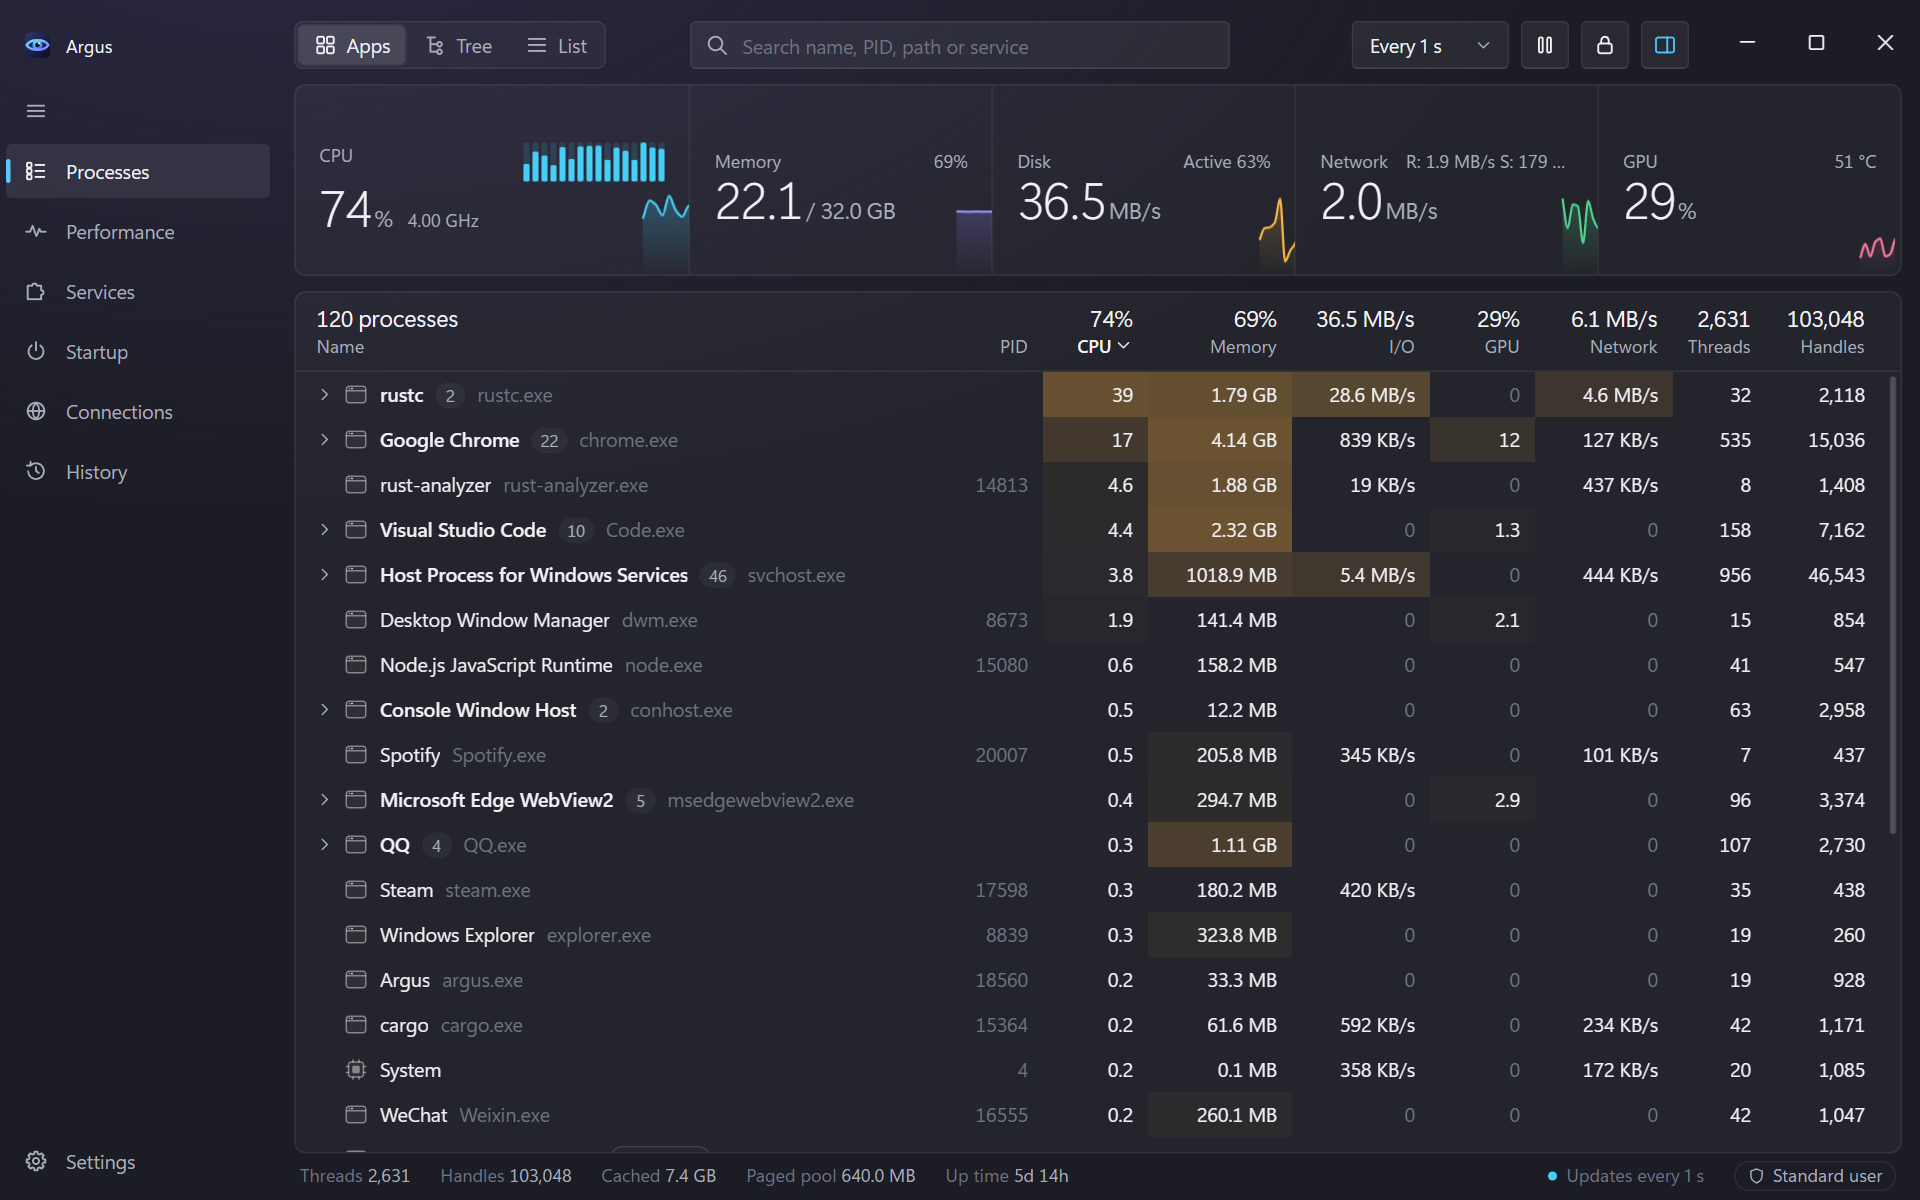
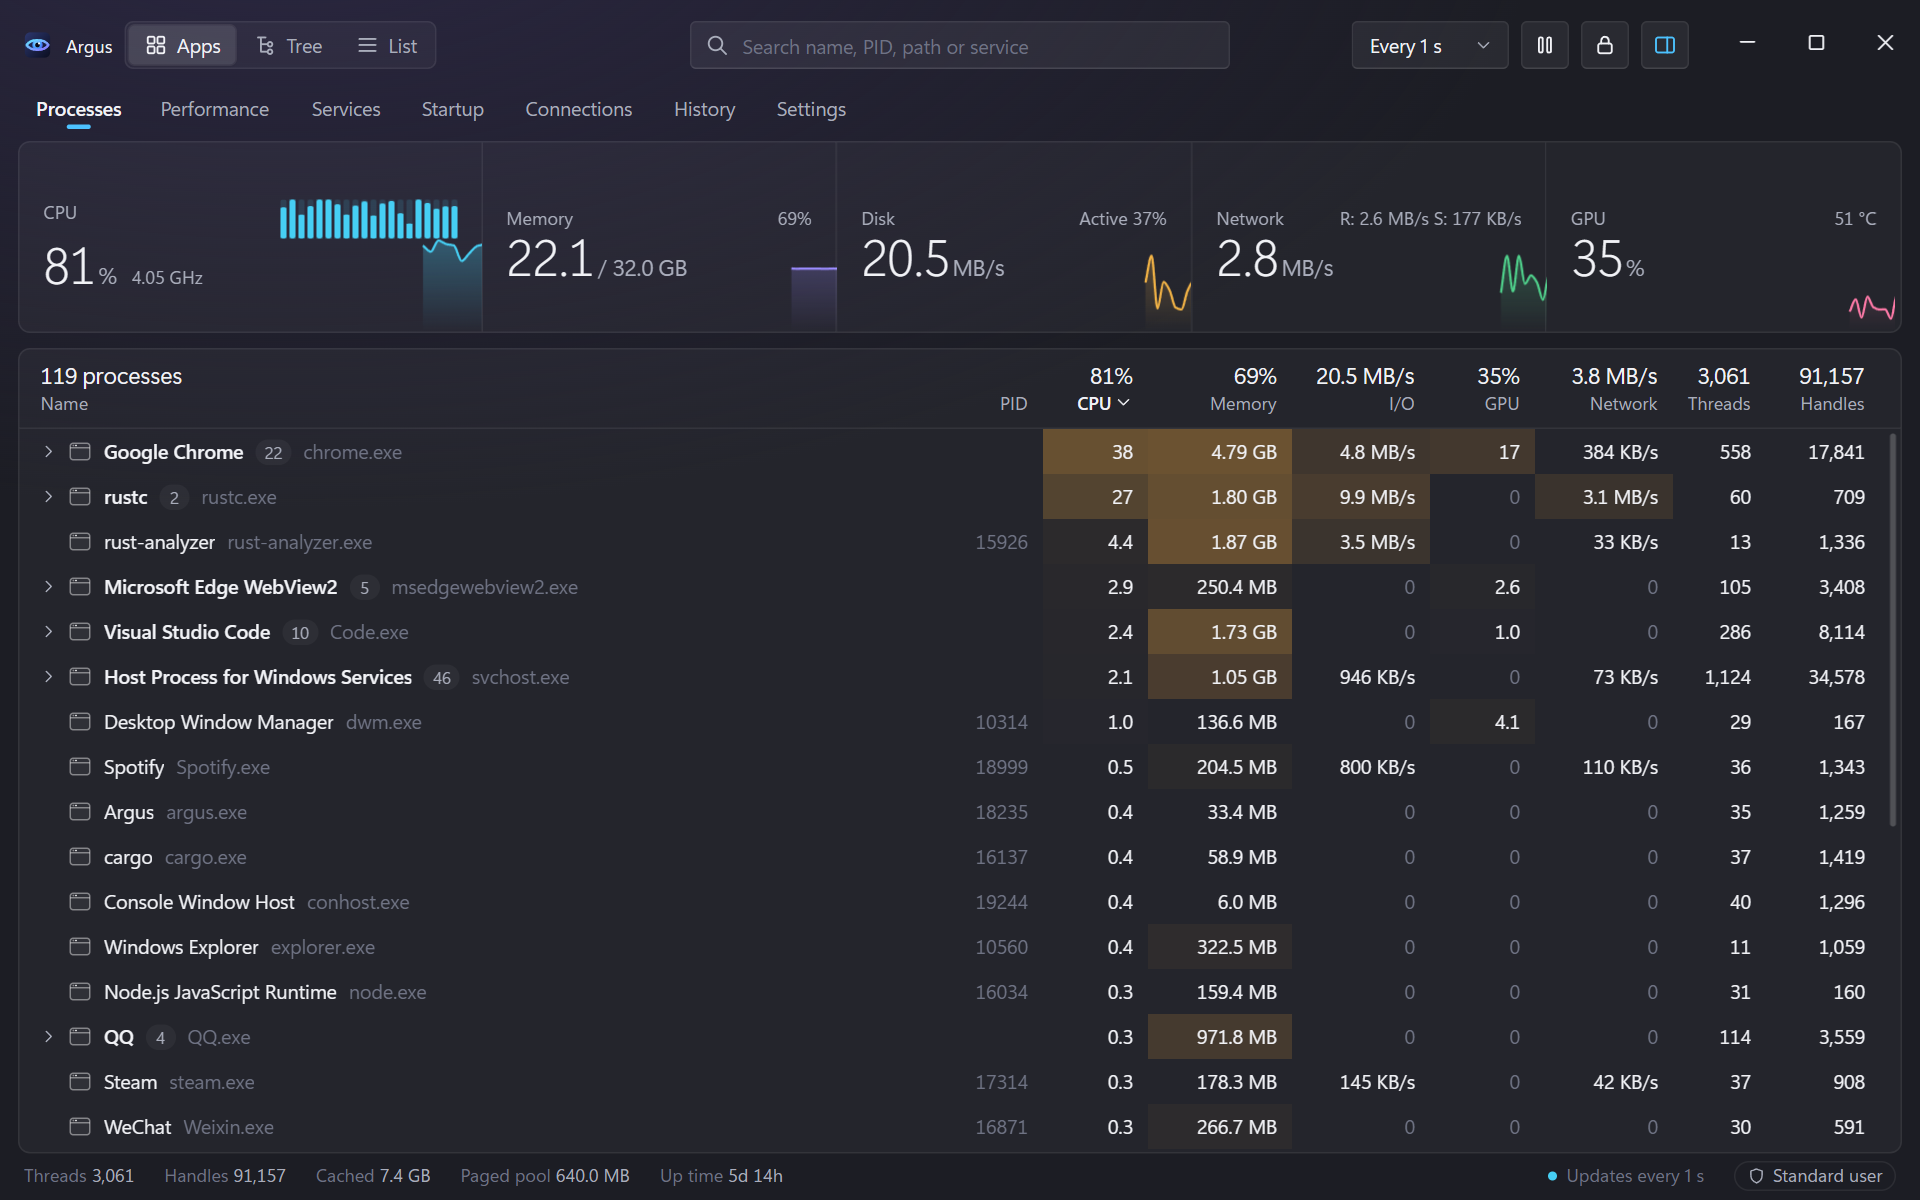
docs: README 截图改为默认的顶部导航界面
中英文、浅色与深色四张截图按现在的默认界面重新截取：导航栏位于工具栏下方，进程页，模拟数据，1280×800 CSS 像素、1.5 倍缩放。原截图展开着侧边导航栏。截图规则补充：用全新的浏览器配置截取默认界面，等新启动进程的高亮消失再截，标题栏的“开发版”换成“Argus”。

diff --git a/docs/AGENTS.md b/docs/AGENTS.md
@@ -4,7 +4,7 @@
 
 - `README.md`（仓库根目录）：对外公开的介绍，参考典型开源项目：是什么、特性、系统要求、怎么构建、快捷键摘要、文档入口、路线图摘要。保持简短，不放实现细节和测量过程。内部开发细则（提交规范、发布流程、CI）也不写进去，包括文档链接后的说明文字。
 - README 的标题 emoji 不要带变体选择符 U+FE0F（如 🛠、⌨、🗺）：GitHub 生成锚点时会保留这个不可见字符，`#-标题` 形式的链接就会失效。版本、下载量等徽标读取 GitHub API，仓库私有时显示 “repo not found”。
-- README 截图（`docs/images/`）用模拟数据截取：在 headless Edge 里打开 `start.bat ui` 的页面，通过 CDP 分别设置浅色与深色截图，不截真实进程。性能页的曲线在 headless 下不渲染，不要用它截图。
+- README 截图（`docs/images/`）用模拟数据截取：在 headless Edge 里打开 `start.bat ui` 的页面，通过 CDP 分别设置浅色与深色截图，不截真实进程。截取默认界面：用全新的浏览器配置，不改导航栏位置等偏好；等进程表里没有新启动进程的高亮再截。标题栏的“开发版”字样替换为“Argus”。性能页的曲线在 headless 下不渲染，不要用它截图。
 - 英文版 `README.en.md` 与 `README.md` 内容对应，改一边要同步另一边；两者顶部的语言切换行互相链接。英文截图（`screenshot-en-*.png`）用 `?lang=en-US` 打开模拟数据页面截取，模拟数据里的进程与服务描述会随之换成英文。英文版链接的 `docs/` 页面是中文的，链接处注明。
 - `docs/`：给用户和开发者看的详细信息。
 - `AGENTS.md`（根目录与各子目录）：只给 AI 代理看的规则与经验。不要把这些内容写进 README 或 docs，也不要把面向人的说明只写在 AGENTS.md 里。
